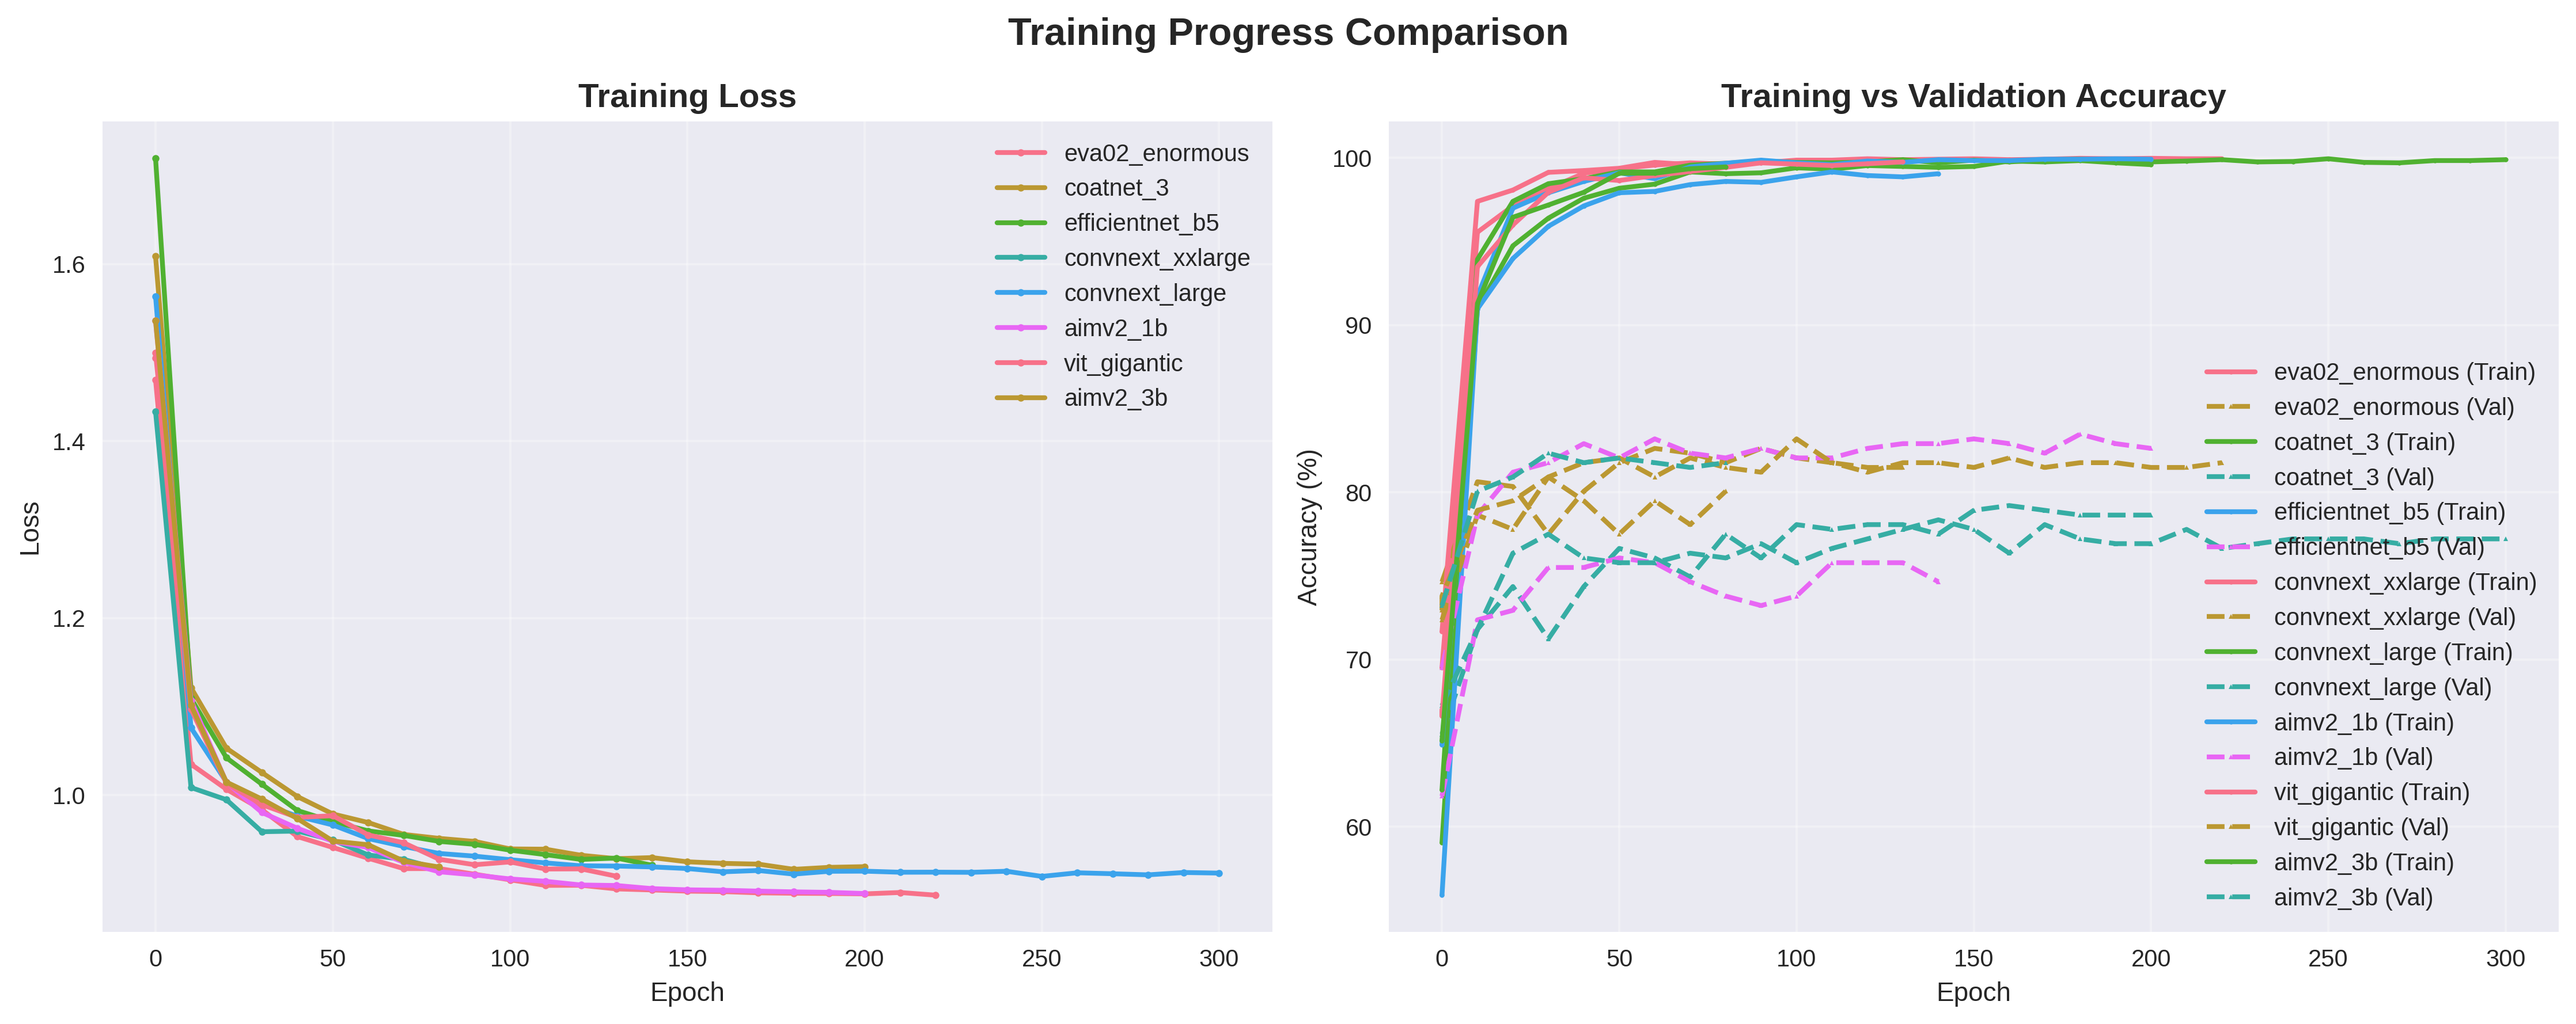
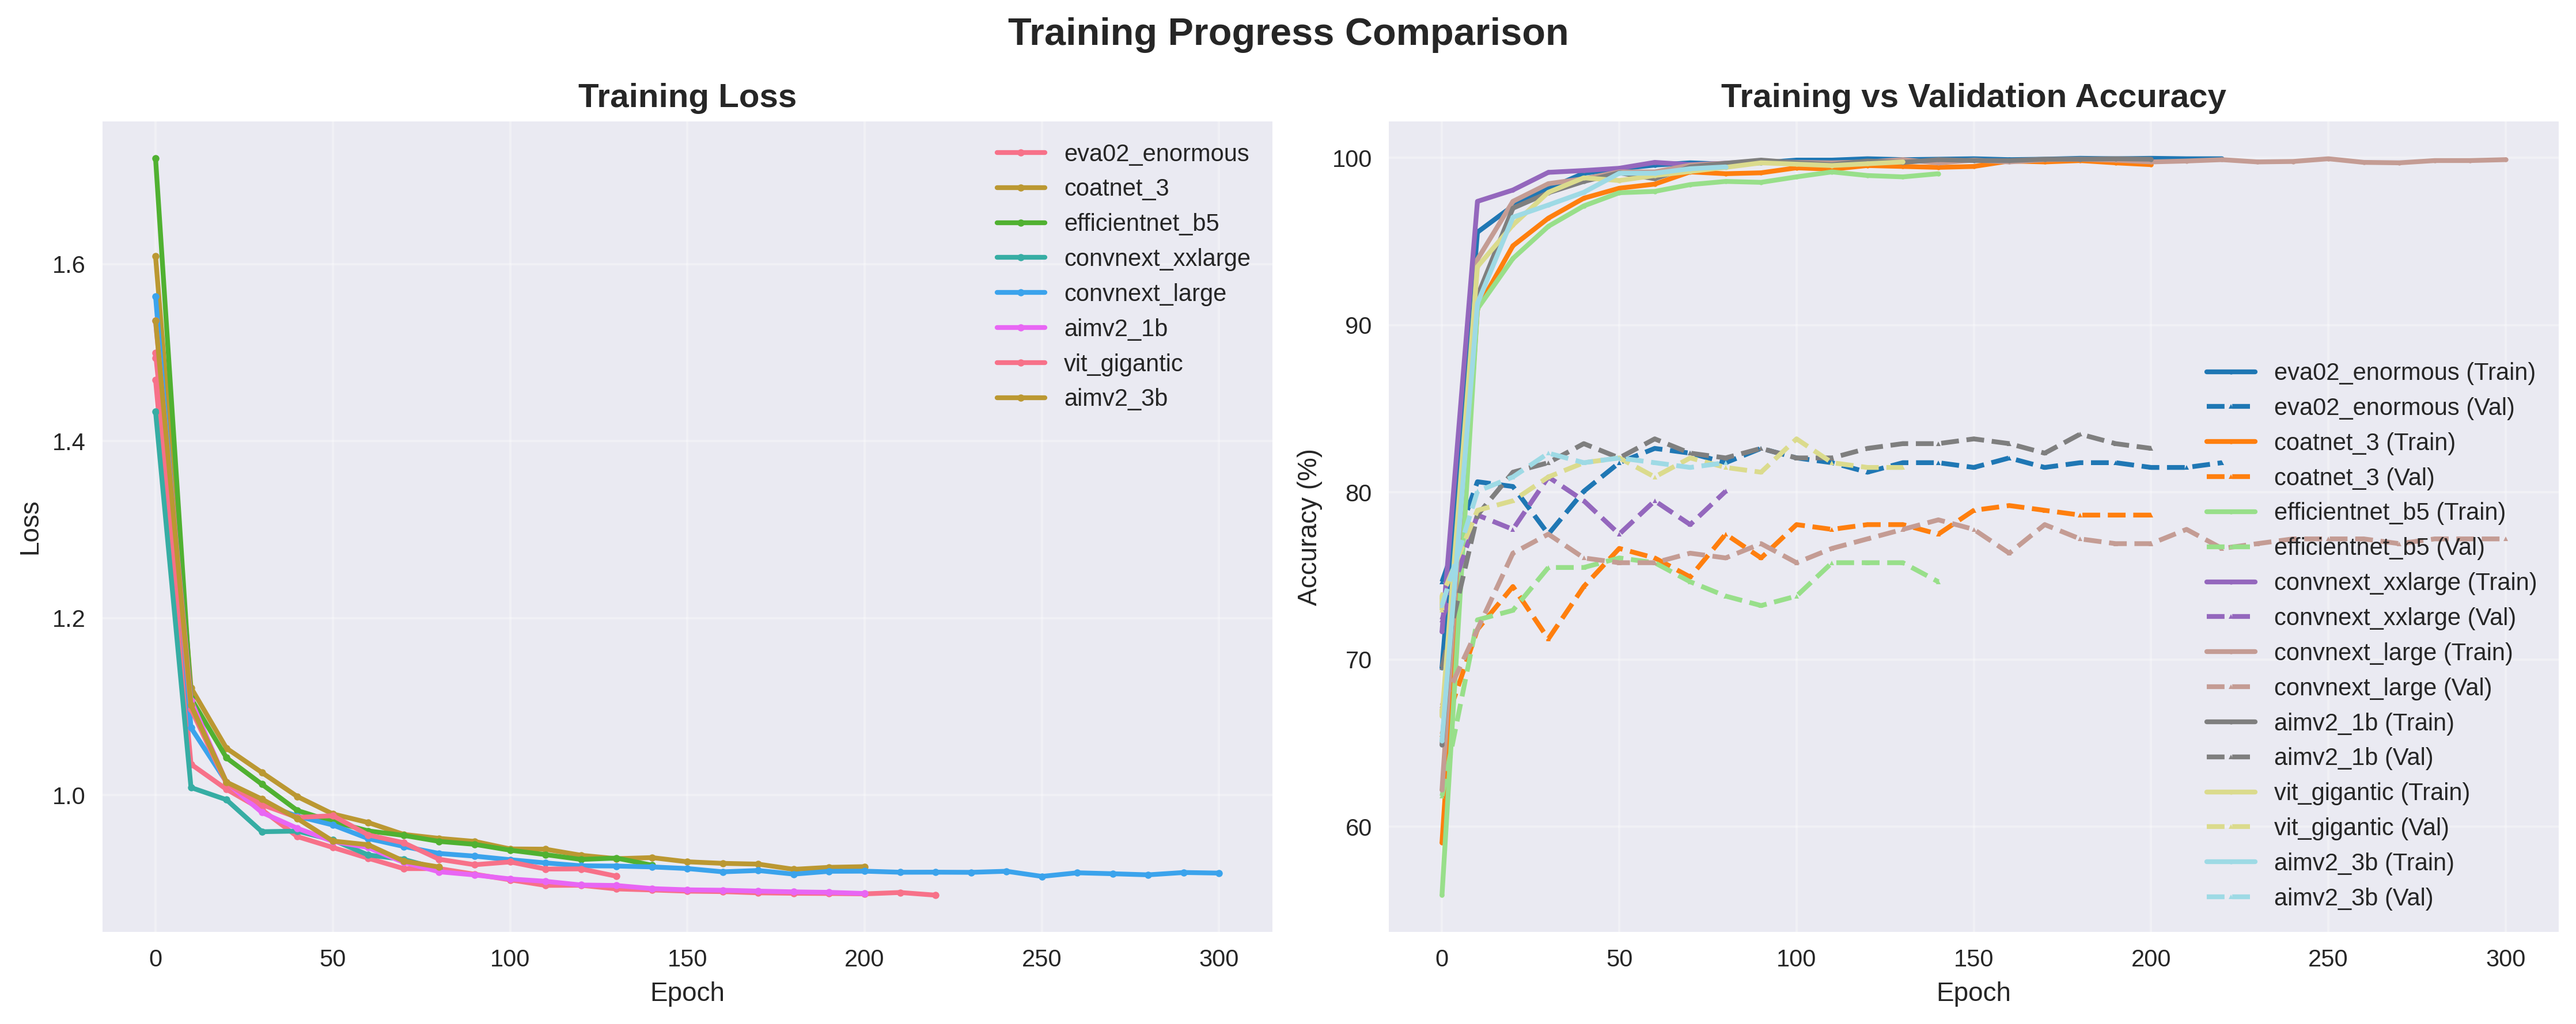
修复训练绘图颜色重复bug

Changed region(s): [[0.5595, 0.1546, 0.9636, 0.8038], [0.8703, 0.5256, 0.9014, 0.5565]]

diff --git a/plot_training_logs.py b/plot_training_logs.py
@@ -4,6 +4,8 @@ import matplotlib.pyplot as plt
 import seaborn as sns
 import glob
 from pathlib import Path
+import matplotlib.cm as cm
+import numpy as np
 
 def plot_training_logs():
     """从logs目录读取训练日志并绘制图表"""
@@ -65,11 +67,16 @@ def plot_training_logs():
     
     # 2. 训练vs验证准确率对比（所有模型）
     ax2 = axes[1]
-    for model_name, df in all_data.items():
+    # 为每个模型分配唯一颜色
+    color_map = cm.get_cmap('tab20', len(all_data))
+    model_colors = {model_name: color_map(i) for i, model_name in enumerate(all_data.keys())}
+    
+    for idx, (model_name, df) in enumerate(all_data.items()):
+        color = model_colors[model_name]
         ax2.plot(df['Epoch'], df['Train_Accuracy'], label=f'{model_name} (Train)', 
-                linewidth=2, marker='o', markersize=2, linestyle='-')
+                linewidth=2, marker='o', markersize=2, linestyle='-', color=color)
         ax2.plot(df['Epoch'], df['Validation_Accuracy'], label=f'{model_name} (Val)', 
-                linewidth=2, marker='^', markersize=2, linestyle='--')
+                linewidth=2, marker='^', markersize=2, linestyle='--', color=color)
     ax2.set_title('Training vs Validation Accuracy', fontsize=14, fontweight='bold')
     ax2.set_xlabel('Epoch')
     ax2.set_ylabel('Accuracy (%)')
